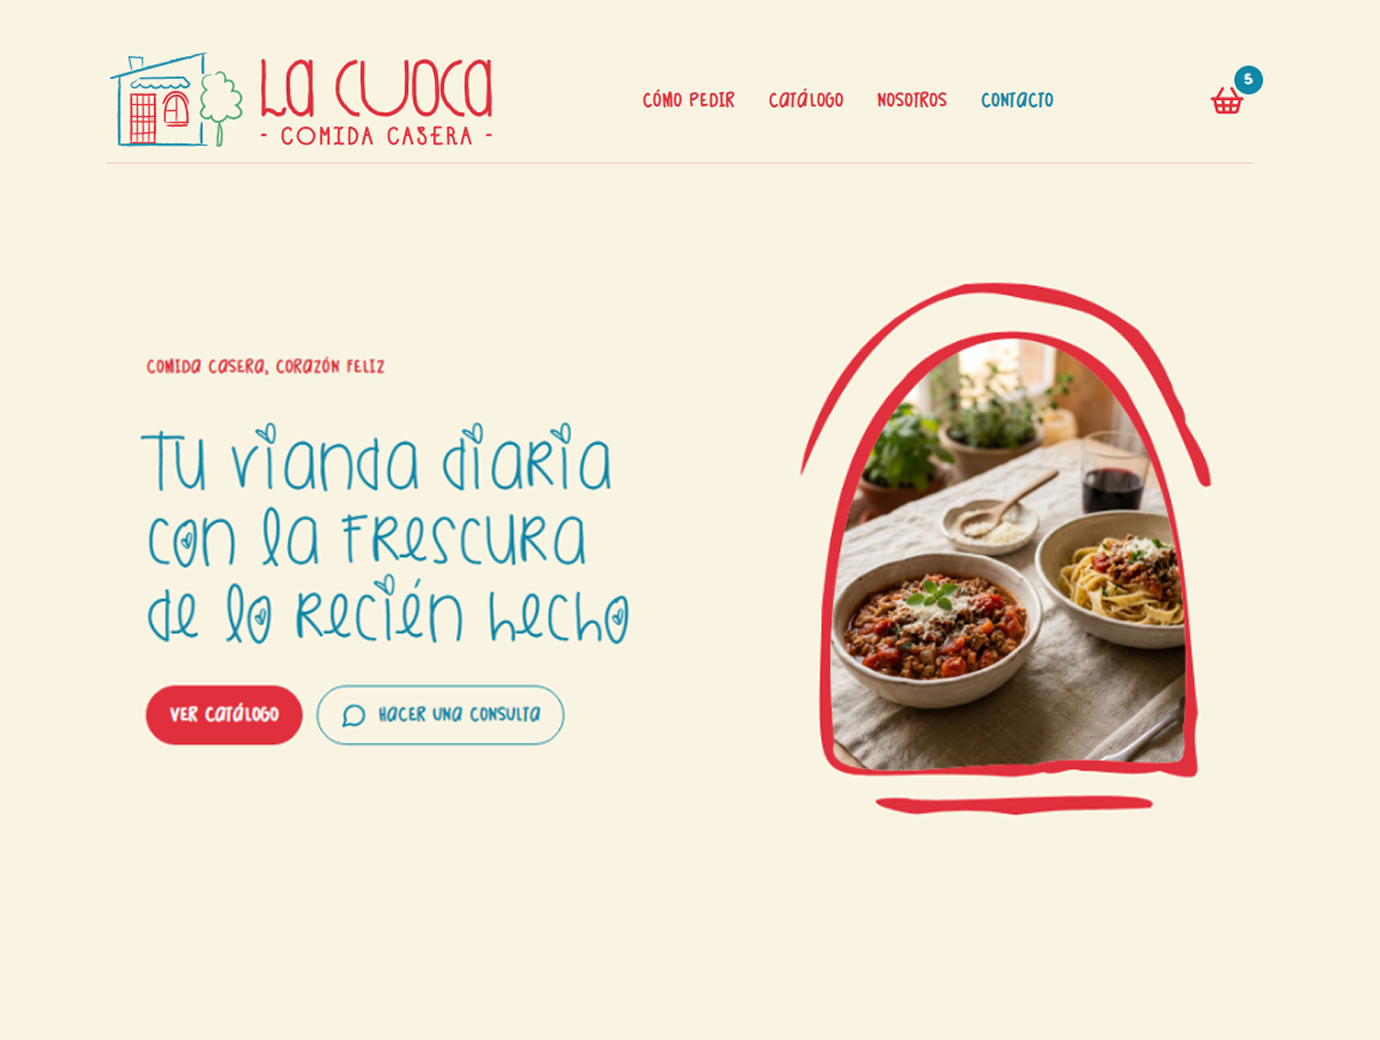
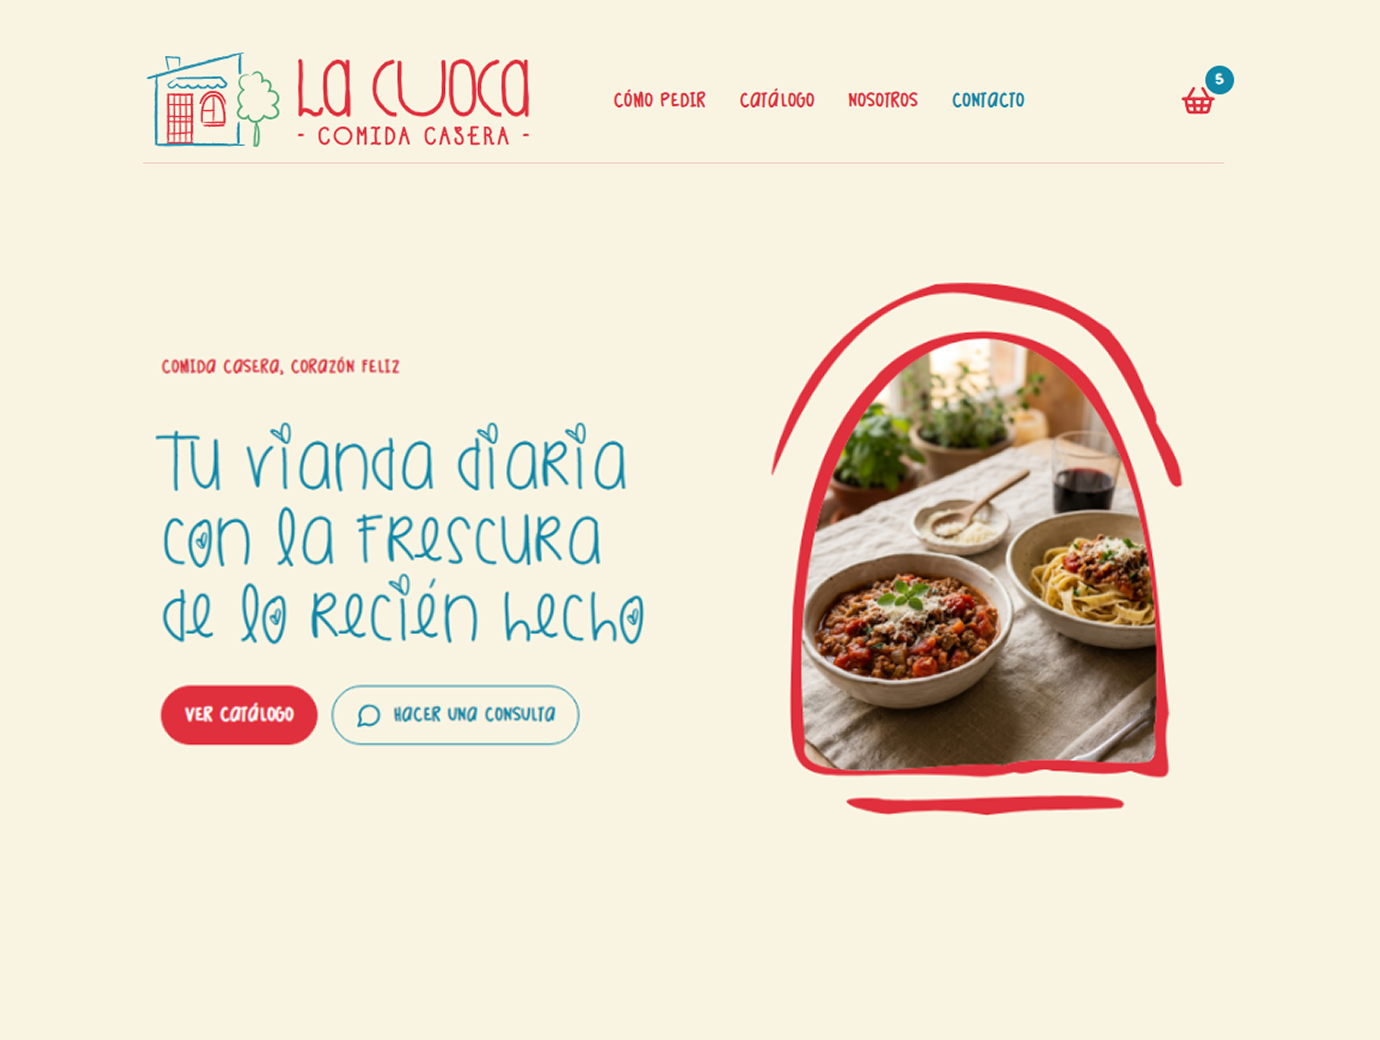
Polish portfolio layout and light theme

diff --git a/app/globals.css b/app/globals.css
@@ -68,7 +68,7 @@ button { color: inherit; font: inherit; }
 .logo span { color: var(--accent); }
 .site-header .logo { flex: 0 0 auto; margin: 0; font-size: 34px; transform: none; }
 .site-header .logo img { width: 38px; height: 38px; display: block; object-fit: contain; }
-.nav { display: flex; flex-direction: row; align-items: center; gap: clamp(18px, 2vw, 34px); font-family: var(--font-dm-sans), "DM Sans", sans-serif; font-size: 11px; font-weight: 600; line-height: 1; letter-spacing: .12em; text-transform: uppercase; }
+.nav { display: flex; flex-direction: row; align-items: center; gap: clamp(18px, 2vw, 34px); font-family: var(--font-dm-sans), "DM Sans", sans-serif; font-size: 11px; font-weight: 600; line-height: 1; letter-spacing: .07em; }
 .nav a { position: relative; width: auto; padding: 8px 0; color: var(--white); opacity: 1; display: flex; align-items: center; gap: 8px; transition: opacity .2s, color .2s; }
 .nav a::before { content: ""; position: absolute; width: 4px; height: 4px; left: -11px; top: 50%; border-radius: 50%; background: var(--accent); opacity: 0; transform: translateY(-50%); transition: opacity .2s; }
 .nav a.active { opacity: 1; }
@@ -163,7 +163,7 @@ body[data-theme="light"] .service-orbit-star path { fill: var(--black); }
 .hero-name { width: min(40vw, 62svh, 560px); min-width: 0; margin-left: 0; text-align: left; transform: translateX(10.9375%); }
 .hero-intro h1 { display: block; margin: 0; font-size: clamp(46px, 4.2vw, 68px); line-height: .95; letter-spacing: -.04em; font-weight: 500; }
 .hero-intro h1 span { color: var(--accent); }
-.hero-name p { max-width: 38rem; margin: clamp(.8rem, 1.4vw, 1.25rem) 0 0; font-size: clamp(1.26rem, 1.61vw, 1.512rem); line-height: 1.3; text-align: left; text-wrap: balance; }
+.hero-name p { max-width: 38rem; margin: clamp(.8rem, 1.4vw, 1.25rem) 0 0; font-family: var(--font-italiana), "Italiana", serif; font-size: clamp(1.26rem, 1.61vw, 1.512rem); font-style: italic; font-weight: 400; line-height: 1.3; text-align: left; text-wrap: balance; }
 .scroll-note { position: fixed; z-index: 18; right: clamp(20px, 3vw, 44px); top: var(--nav-guide-top); writing-mode: vertical-rl; display: flex; align-items: center; gap: 20px; padding: 12px 8px; color: inherit; font-size: 11px; letter-spacing: .2em; animation: scroll-guide-in .45s ease both; transition: color .45s ease, opacity .2s ease; }
 .scroll-note strong { font-weight: 600; white-space: nowrap; }
 .scroll-note span { display: inline-block; writing-mode: horizontal-tb; font-size: 18px; animation: scroll-guide-nudge 1.6s ease-in-out infinite; }
@@ -200,9 +200,11 @@ body[data-theme="light"] footer .footer-heading { border-color: var(--line); }
 body[data-theme="light"] footer .footer-heading h2 { color: inherit !important; }
 body[data-theme="light"] footer .footer-heading > p { color: inherit !important; }
 em { font-family: var(--font-italiana), "Italiana", serif; font-weight: 400; }
-.statement-grid { margin-top: 0; padding-top: 28px; border-top: 1px solid rgba(255,255,255,.18); display: grid; grid-template-columns: 1fr 1fr; gap: 8vw; }
+.statement-grid { margin-top: 0; padding-top: 28px; border-top: 1px solid rgba(255,255,255,.18); display: grid; grid-template-columns: 1fr 1fr; align-items: center; gap: 8vw; }
+#servicios .statement-grid { padding-bottom: 28px; }
 .statement-grid .lead { font-size: clamp(22px, 2.5vw, 38px); line-height: 1.2; margin: 0; }
 .bio { max-width: 520px; font-size: 15px; line-height: 1.75; }
+.statement-grid .bio p { margin: 0; }
 #faq .bio, #faq .bio p { text-align: left; }
 
 .stats { display: grid; grid-template-columns: repeat(4,1fr); border-top: 1px solid rgba(255,255,255,.18); border-bottom: 1px solid rgba(255,255,255,.18); }
@@ -212,18 +214,17 @@ em { font-family: var(--font-italiana), "Italiana", serif; font-weight: 400; }
 .stats strong span { color: var(--accent); }
 .stats p { font-size: 11px; line-height: 1.6; letter-spacing: .08em; text-transform: uppercase; }
 .experience { background: var(--background); color: var(--foreground); padding-top: var(--section-space); padding-bottom: 130px; }
-.process-section,
-body[data-theme="light"] .experience.process-section { background: #000; color: #fff; }
+.process-section { background: var(--background); color: var(--foreground); }
 .process-timeline { width: 100%; max-width: 900px; margin: 0 auto; }
 .process-timeline-heading { margin-bottom: clamp(60px, 7vw, 92px); }
 .process-timeline-eyebrow { margin-bottom: 16px; color: var(--accent); font-size: 10px; font-weight: 500; line-height: 1.4; letter-spacing: .16em; text-transform: uppercase; }
-.process-timeline-heading h2 { margin: 0; color: #fff; font-size: clamp(48px, 6.2vw, 88px); line-height: .98; font-weight: 400; letter-spacing: -.055em; }
+.process-timeline-heading h2 { margin: 0; color: inherit; font-size: clamp(48px, 6.2vw, 88px); line-height: .98; font-weight: 400; letter-spacing: -.055em; }
 .process-timeline-heading h2 em { font-style: italic; }
 .process-timeline-track { position: relative; width: 100%; }
 .process-timeline-line { position: absolute; z-index: 1; top: 21px; left: 19.75px; width: 2.5px; height: calc(100% - 42px); overflow: hidden; pointer-events: none; }
 .process-timeline-line span,
 .process-timeline-line i { position: absolute; inset: 0; display: block; width: 100%; height: 100%; transform-origin: top center; }
-.process-timeline-line span { background: rgba(255,255,255,.2); }
+.process-timeline-line span { background: var(--line); }
 .process-timeline-line i { background: var(--accent); }
 .process-timeline-row { position: relative; display: flex; align-items: flex-start; gap: 34px; margin-bottom: clamp(140px, 12vw, 170px); }
 .process-timeline-track > [role="listitem"]:last-child .process-timeline-row { margin-bottom: 0; }
@@ -277,15 +278,15 @@ body[data-theme="light"] .carbonica-shuffle-copy p { color: rgba(0,0,0,.72); }
 .carbonica-shuffle-cards { position: relative; width: 100%; aspect-ratio: 1.587 / 1; isolation: isolate; touch-action: pan-y; }
 .carbonica-shuffle-card { position: absolute; width: 70%; aspect-ratio: 13 / 8; margin: 0; overflow: hidden; border-radius: 8px; box-shadow: 0 8px 24px rgba(0,0,0,.22); transform-origin: center; transform-style: preserve-3d; will-change: left, top, transform; transition: left .6s ease-in-out, top .6s ease-in-out, transform .6s ease-in-out; }
 .carbonica-shuffle-card img { width: 100%; height: 100%; display: block; object-fit: contain; background: #000; user-select: none; pointer-events: none; }
-.lacuoca-hover-slider { aspect-ratio: auto; display: grid; grid-template-columns: minmax(210px, .42fr) minmax(0, 690px); align-items: center; justify-content: space-between; gap: clamp(34px, 5vw, 86px); overflow: visible; }
+.lacuoca-hover-slider { width: min(100%, 980px); aspect-ratio: auto; margin-inline: auto; display: grid; grid-template-columns: minmax(220px, .42fr) minmax(0, 620px); align-items: center; justify-content: space-between; gap: clamp(34px, 5vw, 64px); overflow: visible; }
 .lacuoca-hover-triggers { display: flex; flex-direction: column; align-items: flex-start; gap: clamp(14px, 1.8vw, 24px); }
-.lacuoca-hover-trigger { display: inline-block; max-width: 100%; overflow: hidden; color: var(--foreground); font-family: var(--font-dm-sans), "DM Sans", sans-serif; font-size: clamp(30px, 4vw, 60px); line-height: .96; font-weight: 400; letter-spacing: -.05em; cursor: pointer; outline: none; }
+.lacuoca-hover-trigger { display: inline-block; max-width: 100%; overflow: hidden; color: var(--foreground); font-family: var(--font-dm-sans), "DM Sans", sans-serif; font-size: clamp(28px, 3.4vw, 52px); line-height: .96; font-weight: 400; letter-spacing: -.05em; cursor: pointer; outline: none; }
 .lacuoca-hover-trigger:focus-visible { outline: 1px solid var(--accent); outline-offset: 6px; }
 .hover-slider-text { display: inline-block; overflow: hidden; white-space: nowrap; }
 .hover-slider-character { position: relative; display: inline-block; overflow: hidden; }
 .hover-slider-character-muted { display: inline-block; opacity: .2; }
 .hover-slider-character-active { position: absolute; left: 0; top: 0; display: inline-block; opacity: 1; }
-.lacuoca-hover-images { position: relative; width: min(100%, 690px); min-width: 0; height: auto; aspect-ratio: 69 / 52; justify-self: end; overflow: hidden; border-radius: 8px; background: rgba(255,255,255,.025); }
+.lacuoca-hover-images { position: relative; width: min(100%, 620px); min-width: 0; height: auto; aspect-ratio: 69 / 52; justify-self: end; overflow: hidden; border-radius: 8px; background: rgba(255,255,255,.025); }
 .hover-slider-image-mask { position: absolute; inset: 0 0 auto; width: 100%; overflow: hidden; }
 .lacuoca-hover-image { position: absolute; top: var(--slide-top, 0); left: var(--slide-left, 0); width: var(--slide-width, 100%); height: auto; max-width: none; display: block; }
 body[data-theme="light"] .lacuoca-hover-images { background: rgba(0,0,0,.025); }
@@ -302,7 +303,7 @@ body[data-theme="light"] .lacuoca-hover-images { background: rgba(0,0,0,.025); }
 .osa-image-dock button.is-active { opacity: 1; }
 .osa-image-dock button span { position: absolute; inset: 0; border-radius: inherit; background-color: #000; background-position: center; background-size: cover; background-repeat: no-repeat; background-attachment: scroll; }
 .osa-image-outline { position: absolute; z-index: 1000; top: 4px; left: 4px; width: 72px; height: 72px; box-sizing: border-box; border: 2px solid #fff; border-radius: 16px; pointer-events: none; transition: transform .45s cubic-bezier(.16,1,.3,1); }
-.osa-monitor-scroll { position: relative; width: 100%; min-height: 100vh; background: #000; }
+.osa-monitor-scroll { position: relative; width: 100%; min-height: 100vh; background: var(--background); color: var(--foreground); }
 .osa-monitor-sticky { position: relative; width: 100%; height: calc(100svh - clamp(76px, 8vh, 96px) - 16px); display: flex; flex-direction: column; }
 .osa-monitor-stage { min-height: 0; flex: 1 1 auto; display: grid; place-items: center; }
 .osa-monitor-mockup { position: relative; width: min(100%, calc((100svh - clamp(76px, 8vh, 96px) - 232px) * 1.741935)); max-width: 1080px; aspect-ratio: 1080 / 620; }
@@ -314,7 +315,7 @@ body[data-theme="light"] .lacuoca-hover-images { background: rgba(0,0,0,.025); }
 .work-gallery-item:nth-child(1) { margin-top: clamp(16px, 1.4vw, 26px); }
 .work-gallery-item:nth-child(3) { margin-top: clamp(22px, 2vw, 38px); }
 .work-gallery-media { position: relative; width: 100%; aspect-ratio: 324 / 650; }
-.work-gallery-screen { position: absolute; z-index: 1; left: 6.2%; top: 4.6%; width: 87%; height: 90.8%; overflow: hidden; border-radius: 8.5% / 4.1%; background: #000; }
+.work-gallery-screen { position: absolute; z-index: 1; left: 5.9%; top: 3%; width: 87.3%; height: 93.8%; overflow: hidden; border-radius: 8.5% / 4.1%; background: #000; }
 .work-gallery-video { position: absolute; z-index: 1; inset: 0; width: 100%; height: 100%; display: block; object-fit: cover; }
 .work-gallery-phone-frame { position: absolute; z-index: 4; inset: 0; width: 100%; height: 100%; display: block; object-fit: contain; pointer-events: none; user-select: none; }
 .work-social-ui { position: absolute; z-index: 2; inset: 0; display: flex; align-items: flex-end; justify-content: space-between; padding: clamp(14px, 1.2vw, 20px) clamp(9px, .8vw, 12px) clamp(14px, 1vw, 18px) clamp(11px, 1vw, 16px); color: #fff; pointer-events: none; text-shadow: 0 1px 8px rgba(0,0,0,.72); background: linear-gradient(to top, rgba(0,0,0,.5), transparent 34%); }

diff --git a/app/StepTimelinePro.js b/app/StepTimelinePro.js
@@ -3,16 +3,26 @@
 import { useRef } from "react";
 import { motion, useScroll, useTransform } from "framer-motion";
 
-const COLORS = {
-  background: "#000000",
-  accent: "#48C9AE",
-  activeTitle: "#FFFFFF",
-  activeText: "rgba(255,255,255,.78)",
-  muted: "rgba(255,255,255,.32)",
-  line: "rgba(255,255,255,.2)",
+const THEMES = {
+  dark: {
+    background: "#000000",
+    accent: "#48C9AE",
+    activeTitle: "#FFFFFF",
+    activeText: "rgba(255,255,255,.78)",
+    muted: "rgba(255,255,255,.32)",
+    line: "rgba(255,255,255,.2)",
+  },
+  light: {
+    background: "#FFFFFF",
+    accent: "#48C9AE",
+    activeTitle: "#000000",
+    activeText: "rgba(0,0,0,.78)",
+    muted: "rgba(0,0,0,.32)",
+    line: "rgba(0,0,0,.2)",
+  },
 };
 
-function StepRow({ index, step, activeViewportOffset }) {
+function StepRow({ index, step, activeViewportOffset, colors }) {
   const rowRef = useRef(null);
   const activeOffsetPct = activeViewportOffset * 100;
   const { scrollYProgress } = useScroll({
@@ -20,11 +30,11 @@ function StepRow({ index, step, activeViewportOffset }) {
     offset: [`start ${activeOffsetPct + 0.1}%`, `start ${activeOffsetPct}%`],
   });
 
-  const circleBackground = useTransform(scrollYProgress, [0, 1], [COLORS.background, COLORS.accent]);
-  const circleBorder = useTransform(scrollYProgress, [0, 1], [COLORS.line, COLORS.accent]);
-  const numberColor = useTransform(scrollYProgress, [0, 1], [COLORS.muted, COLORS.activeTitle]);
-  const titleColor = useTransform(scrollYProgress, [0, 1], [COLORS.muted, COLORS.activeTitle]);
-  const descriptionColor = useTransform(scrollYProgress, [0, 1], [COLORS.muted, COLORS.activeText]);
+  const circleBackground = useTransform(scrollYProgress, [0, 1], [colors.background, colors.accent]);
+  const circleBorder = useTransform(scrollYProgress, [0, 1], [colors.line, colors.accent]);
+  const numberColor = useTransform(scrollYProgress, [0, 1], [colors.muted, colors.activeTitle]);
+  const titleColor = useTransform(scrollYProgress, [0, 1], [colors.muted, colors.activeTitle]);
+  const descriptionColor = useTransform(scrollYProgress, [0, 1], [colors.muted, colors.activeText]);
   const haloShadow = useTransform(
     scrollYProgress,
     (value) => `0 0 0 ${10 * value}px rgba(72,201,174,${0.15 * value})`,
@@ -55,8 +65,9 @@ function StepRow({ index, step, activeViewportOffset }) {
   );
 }
 
-export default function StepTimelinePro({ eyebrow, heading, steps, activeViewportOffset = 0.5 }) {
+export default function StepTimelinePro({ eyebrow, heading, steps, theme = "dark", activeViewportOffset = 0.5 }) {
   const timelineTrackRef = useRef(null);
+  const colors = THEMES[theme] ?? THEMES.dark;
   const stepCount = Math.max(steps.length, 1);
   const activeOffsetPct = activeViewportOffset * 100;
   const { scrollYProgress: rawLineProgress } = useScroll({
@@ -83,6 +94,7 @@ export default function StepTimelinePro({ eyebrow, heading, steps, activeViewpor
               index={index}
               step={step}
               activeViewportOffset={activeViewportOffset}
+              colors={colors}
             />
           </div>
         ))}

diff --git a/app/page.js b/app/page.js
@@ -35,7 +35,7 @@ const contactEmail = "vorustudio@gmail.com";
 
 const translations = {
   es: {
-    nav: ["Nuestro trabajo", "Qué hacemos", "Proceso", "Preguntas frecuentes"],
+    nav: ["Nuestro Trabajo", "Qué Hacemos", "Proceso", "Preguntas Frecuentes"],
     contact: "Contacto",
     menuOpen: "Abrir menú",
     menuClose: "Cerrar menú",
@@ -79,7 +79,7 @@ const translations = {
     },
     services: {
       index: "02 / QUÉ HACEMOS",
-      title: ["Una marca.", "Distintas herramientas."],
+      title: ["Identidad, contenido", "y desarrollo web."],
       groups: [
         ["IDENTIDAD", ["Branding", "Dirección visual", "Piezas gráficas"]],
         ["CONTENIDO", ["Video", "Campañas", "Redes"]],
@@ -94,9 +94,6 @@ const translations = {
         [["Creamos", "la propuesta"], "Definimos qué hacer y cómo llevarlo adelante."],
         [["Recibís", "el resultado"], "Te entregamos todo terminado y listo para usar."]
       ]
-    },
-    editorial: {
-      title: ["El negocio permanece delante.", "La tecnología, detrás."]
     },
     faq: {
       index: "04 / PREGUNTAS FRECUENTES",
@@ -121,7 +118,7 @@ const translations = {
     backToTop: "Volver arriba"
   },
   en: {
-    nav: ["Our work", "What we do", "Process", "FAQ"],
+    nav: ["Our Work", "What We Do", "Process", "FAQ"],
     contact: "Contact",
     menuOpen: "Open menu",
     menuClose: "Close menu",
@@ -165,7 +162,7 @@ const translations = {
     },
     services: {
       index: "02 / WHAT WE DO",
-      title: ["One brand.", "Different tools."],
+      title: ["Branding, content", "and web development."],
       groups: [
         ["IDENTITY", ["Branding", "Visual direction", "Graphic pieces"]],
         ["CONTENT", ["Video", "Campaigns", "Social media"]],
@@ -180,9 +177,6 @@ const translations = {
         [["We create", "the proposal"], "We define what to do and how to move it forward."],
         [["You receive", "the result"], "We deliver everything finished and ready to use."]
       ]
-    },
-    editorial: {
-      title: ["The business stays in front.", "Technology stays behind."]
     },
     faq: {
       index: "04 / FREQUENTLY ASKED QUESTIONS",
@@ -618,14 +612,8 @@ export default function Home() {
           eyebrow={t.process.index.split(" / ").at(-1)}
           heading={t.process.title}
           steps={t.process.steps}
+          theme={theme}
         />
-      </section>
-
-      <section className="statement section-pad" id="editorial">
-        <div className="section-heading footer-heading reveal">
-          <div className="section-index" aria-hidden="true" />
-          <h2>{t.editorial.title[0]}<br /><em>{t.editorial.title[1]}</em></h2>
-        </div>
       </section>
 
       <section className="statement section-pad" id="faq">
